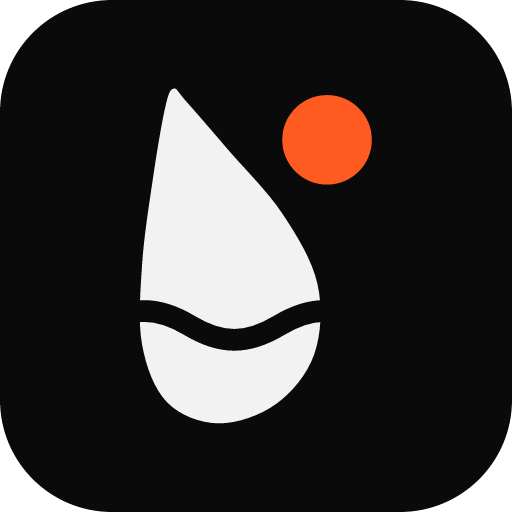
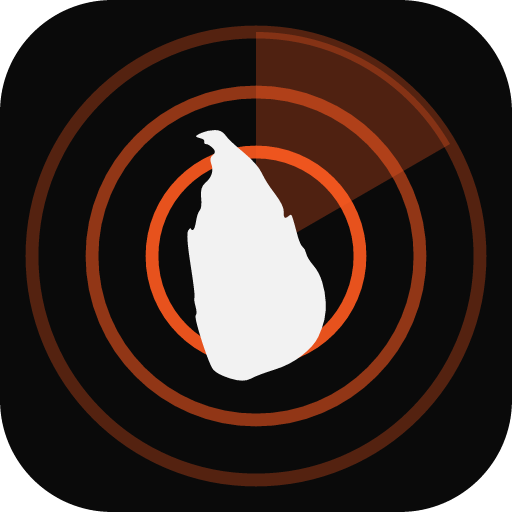
feat(repo): redraw the brand mark as the island under radar watch
The mark is now the island at the centre of three radar rings, the
sweep passing through the north-east: the whole country watched so
warnings reach people in time. The outline is traced from the
provincial boundaries and smoothed, in place of the hand-drawn drop.

Below 24 px a small mark with one bold ring and a larger island stands
in, since the faint rings blur together; it is the favicon, on the dark
tile so it reads on light and dark tabs. The notification badge has its
own source, brand/badge.svg, in solid white. The icon set in public/
is regenerated from the new sources.

Changed region(s): [[0.0312, 0.0312, 0.9688, 0.9688]]

diff --git a/brand/README.md b/brand/README.md
@@ -2,29 +2,32 @@
 
 ## The mark
 
-Sri Lanka is often called the teardrop of the Indian Ocean. The mark
-draws the island as a raindrop, leaning west at its northern tip as the
-island does, with a wave of water across it (rain, rivers and flood
-level) and the sun rising to the north-east in the brand orange.
+Radar watch: the island of Sri Lanka at the centre of three radar
+rings, with the sweep passing through the north-east. It says what the
+portal does: the whole country watched at once, so that warnings reach
+people in time. The outline is traced from the provincial boundaries
+and smoothed.
 
-The drop takes the text colour of wherever it sits: near-black on light
-backgrounds, near-white on dark ones. The sun is always `#FF5A1F`.
+The island takes the text colour of wherever it sits: near-black on
+light backgrounds, near-white on dark ones. The rings and the sweep are
+always `#FF5A1F`.
 
 ## Files
 
 All artwork is on a 64-unit grid. The `-light` files are for light
 backgrounds and the `-dark` files for dark backgrounds.
 
-| File | Use |
-|---|---|
-| `mark-light.svg`, `mark-dark.svg` | The mark alone, transparent background |
-| `mark-small-light.svg`, `mark-small-dark.svg` | The mark without the wave, for 24 px and smaller |
-| `wordmark-light.svg`, `wordmark-dark.svg` | "Lanka Weather" in Geist SemiBold, outlined |
-| `lockup-horizontal-light.svg`, `lockup-horizontal-dark.svg` | Mark and wordmark side by side |
-| `app-icon-dark.svg`, `app-icon-light.svg` | The mark on a rounded tile; the dark tile is the app icon |
-| `app-icon-small.svg` | The small mark on the dark tile, for the 16 px favicon |
-| `app-icon-maskable.svg` | Full-bleed tile with the mark inside the maskable safe zone |
-| `favicon.svg` | The small mark; the drop switches to near-white in dark mode |
+| File                                                        | Use                                                                     |
+| ----------------------------------------------------------- | ----------------------------------------------------------------------- |
+| `mark-light.svg`, `mark-dark.svg`                           | The mark alone, transparent background                                  |
+| `mark-small-light.svg`, `mark-small-dark.svg`               | One bold ring around a larger island, for 24 px and smaller             |
+| `wordmark-light.svg`, `wordmark-dark.svg`                   | "Lanka Weather" in Geist SemiBold, outlined                             |
+| `lockup-horizontal-light.svg`, `lockup-horizontal-dark.svg` | Mark and wordmark side by side                                          |
+| `app-icon-dark.svg`, `app-icon-light.svg`                   | The mark on a rounded tile; the dark tile is the app icon               |
+| `app-icon-small.svg`                                        | The small mark on the dark tile, for the 16 px favicon                  |
+| `app-icon-maskable.svg`                                     | Full-bleed tile with the mark inside the maskable safe zone             |
+| `badge.svg`                                                 | Island and two rings in solid white, for the Android notification badge |
+| `favicon.svg`                                               | The small mark on the dark tile, which reads on light and dark tabs     |
 
 The favicons, touch icon, PWA icons and web manifest in
 `apps/web/public/` are generated from these files:
@@ -38,22 +41,22 @@ draw the same geometry inline and set the name in live Geist text.
 
 ## Usage
 
-- Keep clear space around the mark of at least the sun's diameter.
+- Keep clear space around the mark of at least a quarter of its width.
 - Use the full mark from 24 px up and the small mark below that; at
-  16 px the wave closes up.
+  16 px the faint rings and the sweep blur together.
 - In the lockup the wordmark's cap height is about half the mark's
-  height, and the caps are centred on the drop.
-- Do not recolour the sun, outline the drop, rotate the mark or set the
-  name in another typeface.
+  height, and the caps are centred on the island.
+- Do not recolour the rings, outline the island, rotate the mark or set
+  the name in another typeface.
 - On photographs or busy maps, place the mark on its tile.
 
 ## Colours
 
-| Name | Hex | Use |
-|---|---|---|
-| Ink | `#0A0A0A` | Drop on light backgrounds; dark tile; dark-theme cards |
-| Paper | `#F2F2F2` | Drop on dark backgrounds |
-| Signal orange | `#FF5A1F` | The sun; the accent colour of the interface (`#EC4F16` in the light theme for contrast) |
+| Name          | Hex       | Use                                                                                                 |
+| ------------- | --------- | --------------------------------------------------------------------------------------------------- |
+| Ink           | `#0A0A0A` | Island on light backgrounds; dark tile; dark-theme cards                                            |
+| Paper         | `#F2F2F2` | Island on dark backgrounds                                                                          |
+| Signal orange | `#FF5A1F` | The rings and sweep; the accent colour of the interface (`#EC4F16` in the light theme for contrast) |
 
 ## Typefaces
 
